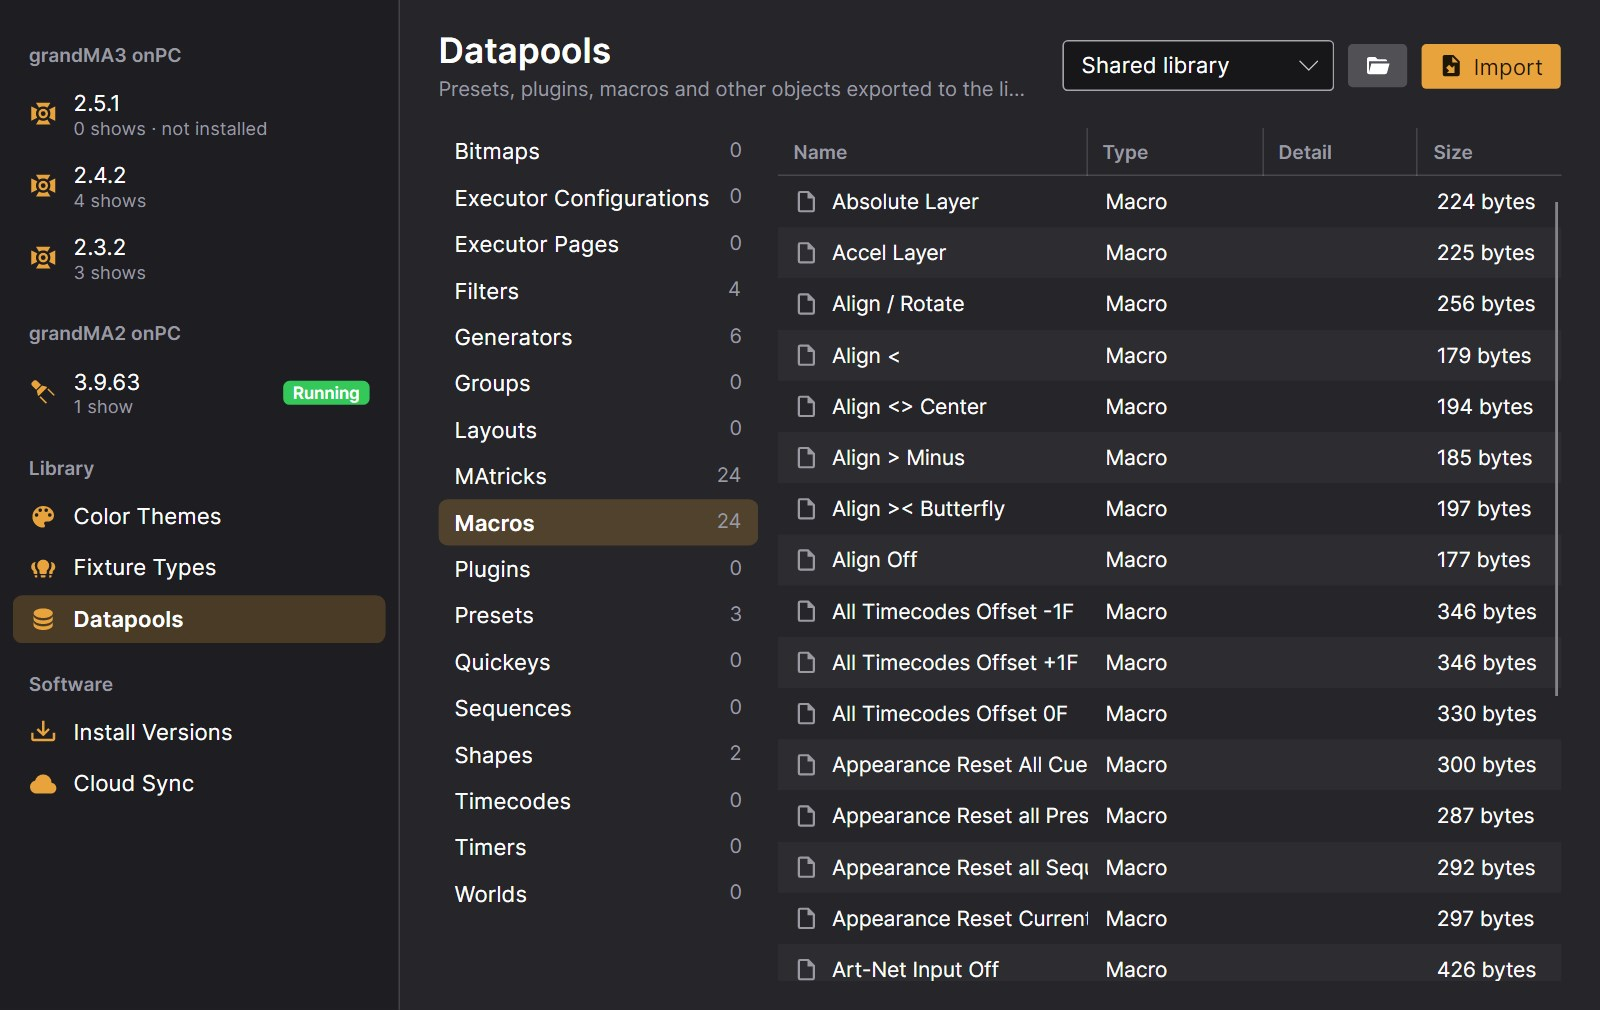
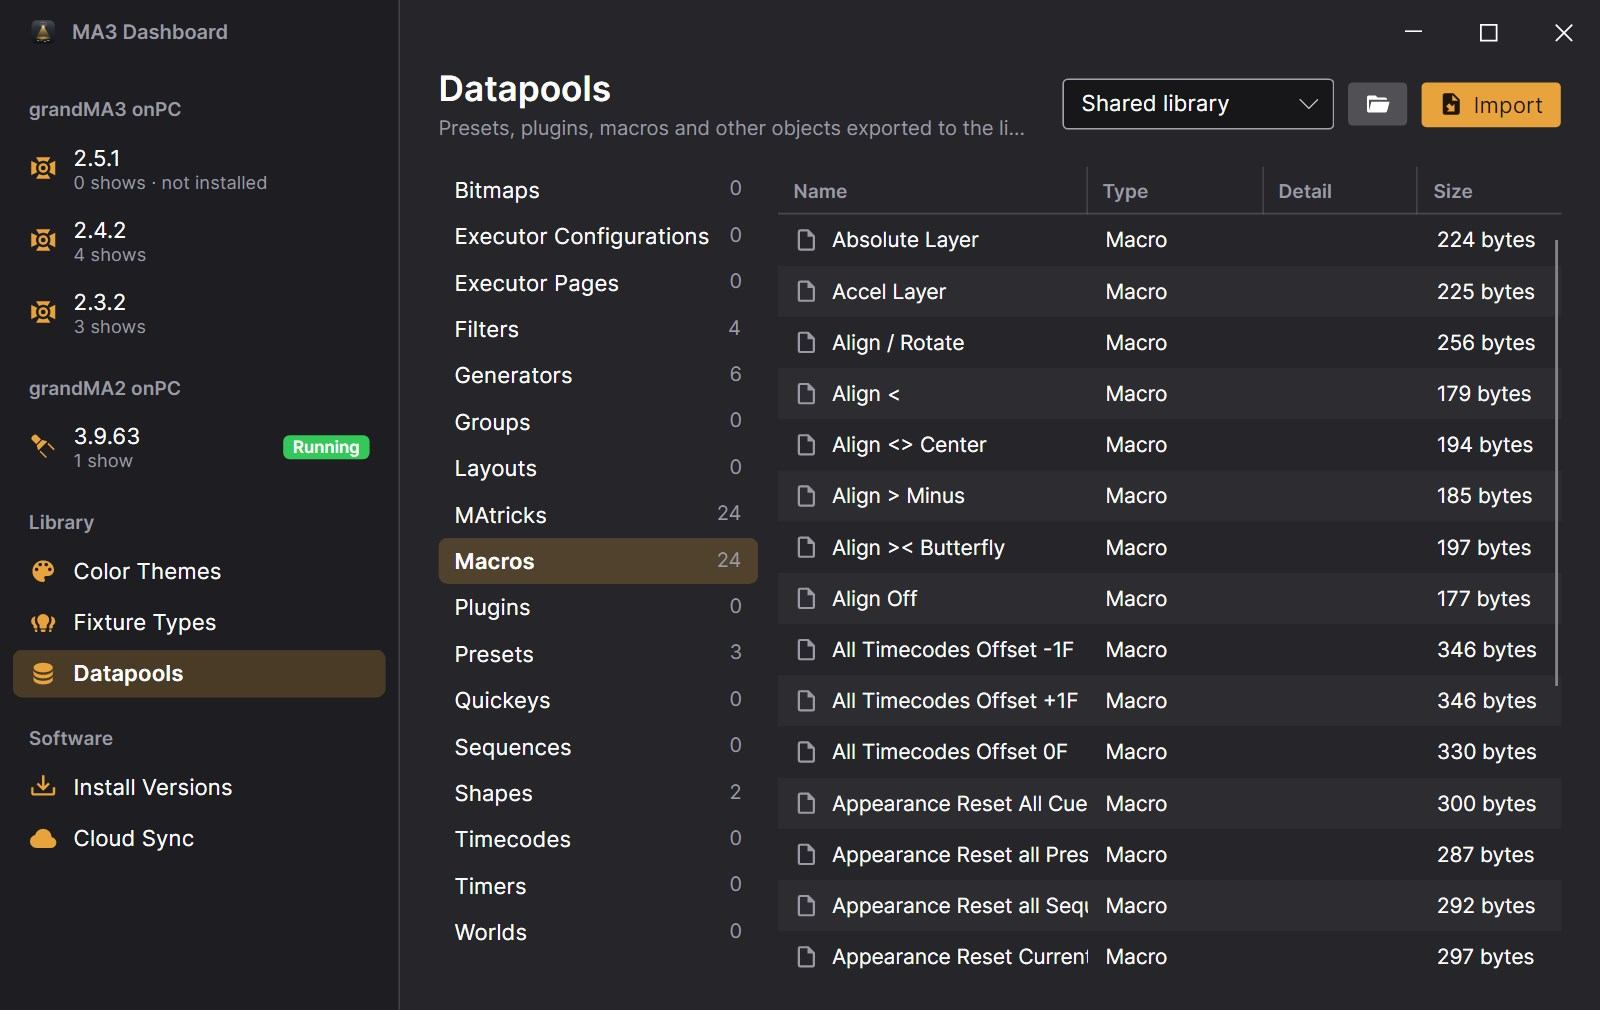
Windows: draw the app into the title bar
The sidebar now runs to the top of the window with the app icon and name,
and a 40 px strip above each page is the drag area under Avalonia's own
minimize, maximize and close buttons, which replace the system title bar.
Avalonia's default title text and full-screen button are hidden. It only
turns on for Windows; the confirm dialogs keep the system bar in dark mode.

Site screenshots re-rendered with the new title bar and the alt text updated.

diff --git a/docs/index.html b/docs/index.html
@@ -401,7 +401,7 @@ docker compose up -d --build</code></pre>
         <p>grandMA2 onPC runs natively on Windows, so it gets the same launch, CleanStart and showfile handling. A Mac and a PC can share one sync server.</p>
       </div>
       <button class="shot" type="button" data-full="images/windows.jpg" aria-label="Enlarge: the Windows version">
-        <img src="images/windows.jpg" alt="The Windows version in its dark theme: a sidebar lists grandMA3 versions 2.5.1, 2.4.2 and 2.3.2 and grandMA2 3.9.63, and the 2.4.2 page shows four showfiles with Import, Shows Folder and a Launch 2.4.2.2 split button" loading="lazy" width="1600" height="1010">
+        <img src="images/windows.jpg" alt="The Windows version in its dark theme, drawn up into the title bar with its own minimize, maximize and close buttons: a sidebar lists grandMA3 versions 2.5.1, 2.4.2 and 2.3.2 and a running grandMA2 3.9.63, and the 2.4.2 page shows four showfiles with Import, Shows Folder and a Launch 2.4.2.2 split button" loading="lazy" width="1600" height="1010">
       </button>
     </div>
     <div class="wrap" style="margin-top: 30px">

diff --git a/windows/MA3Dashboard/Views/WindowChrome.cs b/windows/MA3Dashboard/Views/WindowChrome.cs
@@ -19,6 +19,17 @@ public static class WindowChrome
     const int UseImmersiveDarkMode = 20;          // Windows 10 20H1 and later, Windows 11
     const int UseImmersiveDarkModeBefore20H1 = 19; // Windows 10 1809 to 1909
 
+    /// Draws the app into the title bar area on Windows (sidebar to the top, Avalonia's own caption buttons), so there
+    /// is no separate system title bar. MainWindow.axaml marks the drag areas and sizes them from WindowDecorationMargin.
+    public const double TitleBarHeight = 40;
+
+    public static void IntegrateTitleBar(Window window)
+    {
+        if (!OperatingSystem.IsWindows()) return;
+        window.ExtendClientAreaToDecorationsHint = true;
+        window.ExtendClientAreaTitleBarHeightHint = TitleBarHeight;
+    }
+
     public static void FollowTheme(Window window)
     {
         if (!OperatingSystem.IsWindows()) return;

diff --git a/windows/MA3Dashboard/Views/Converters.cs b/windows/MA3Dashboard/Views/Converters.cs
@@ -83,6 +83,9 @@ public static class Conv
     {
         "Installed" => Brushes.SeaGreen, "New" => new SolidColorBrush(Color.Parse("#E8A33D")), _ => Brushes.Gray,
     });
+    /// Page padding: less at the top when the drag strip above the page already gives the header room.
+    public static readonly IValueConverter PageMargin = new FuncValueConverter<bool, Avalonia.Thickness>(extended =>
+        extended ? new Avalonia.Thickness(24, 2, 24, 18) : new Avalonia.Thickness(24, 18, 24, 18));
     public static readonly IValueConverter InstallLabel = new FuncValueConverter<bool, string>(installed => installed ? "Reinstall" : "Install");
     public static readonly IValueConverter Modes =new FuncValueConverter<List<FixtureMode>, string>(m => m == null ? "" : string.Join("\n", m.Select(x => $"{x.Name} · {x.Channels} ch")));
 }

diff --git a/windows/MA3Dashboard/Views/MainWindow.axaml.cs b/windows/MA3Dashboard/Views/MainWindow.axaml.cs
@@ -16,6 +16,7 @@ public partial class MainWindow : Window, IDialogs
     {
         InitializeComponent();
         WindowChrome.FollowTheme(this);
+        WindowChrome.IntegrateTitleBar(this);
         AddHandler(DragDrop.DragOverEvent, (_, e) =>
             e.DragEffects = Vm?.CurrentPage is IDropTarget && e.DataTransfer.Contains(DataFormat.File) ? DragDropEffects.Copy : DragDropEffects.None);
         AddHandler(DragDrop.DropEvent, (_, e) =>
